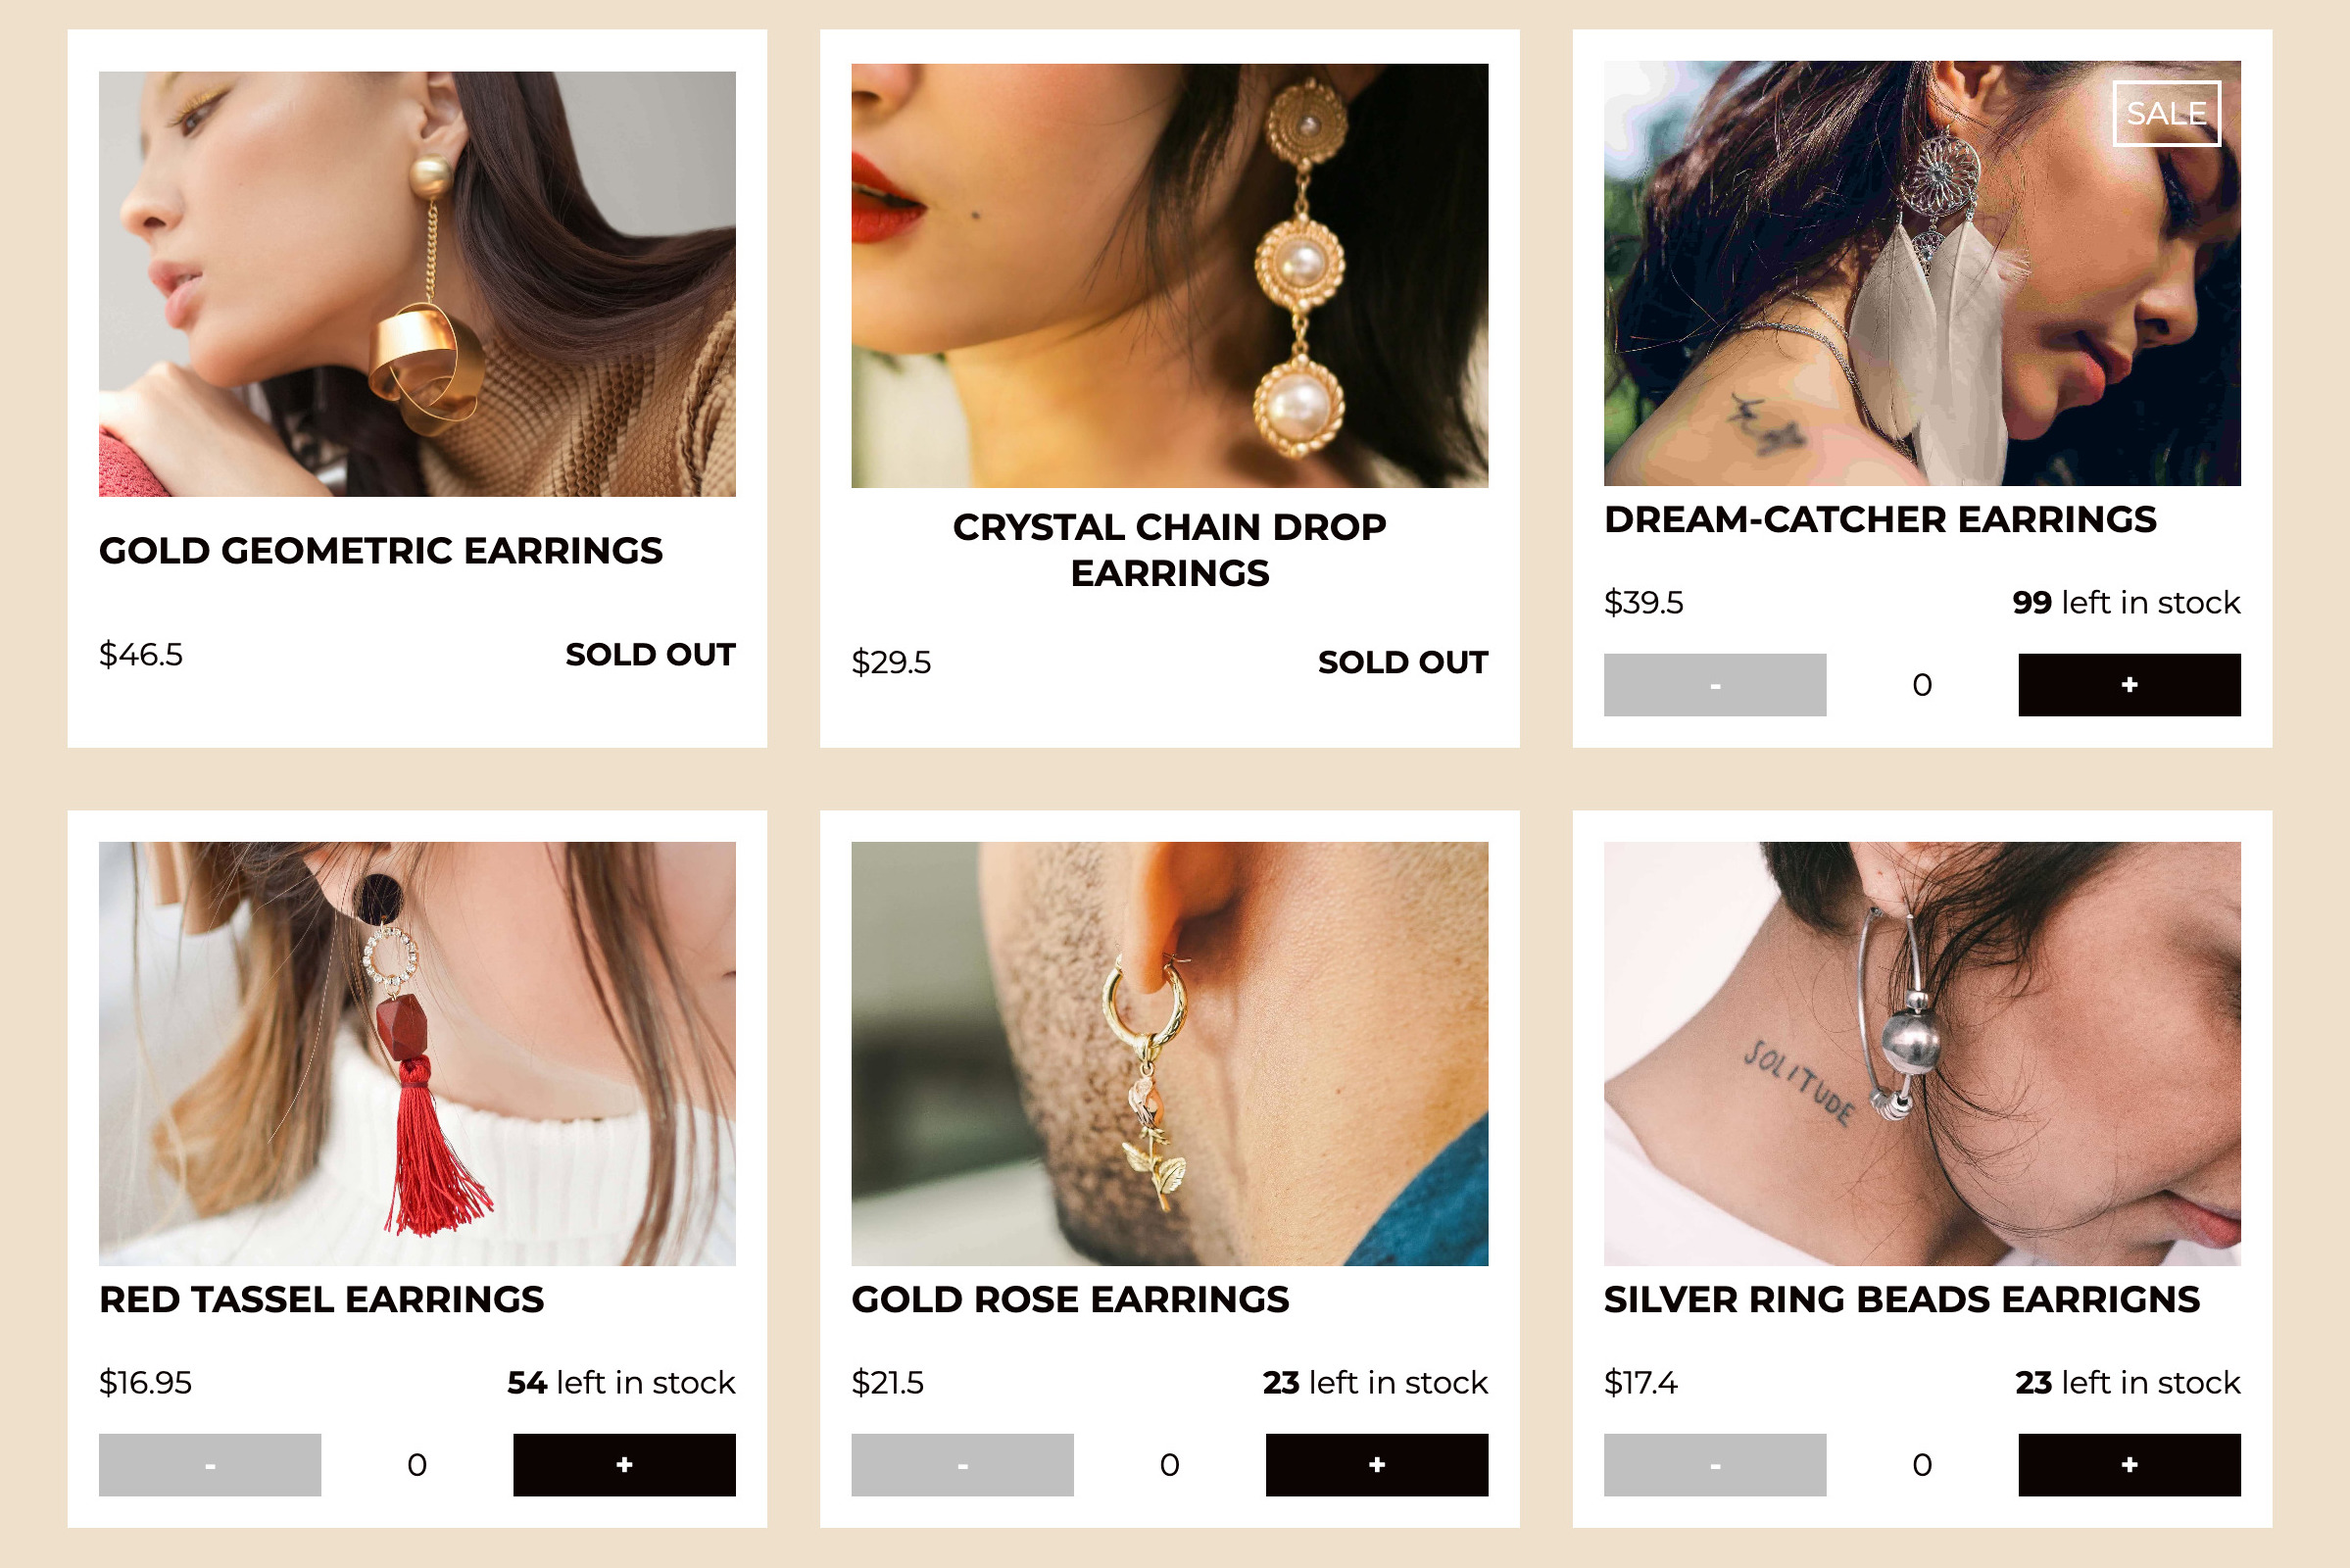
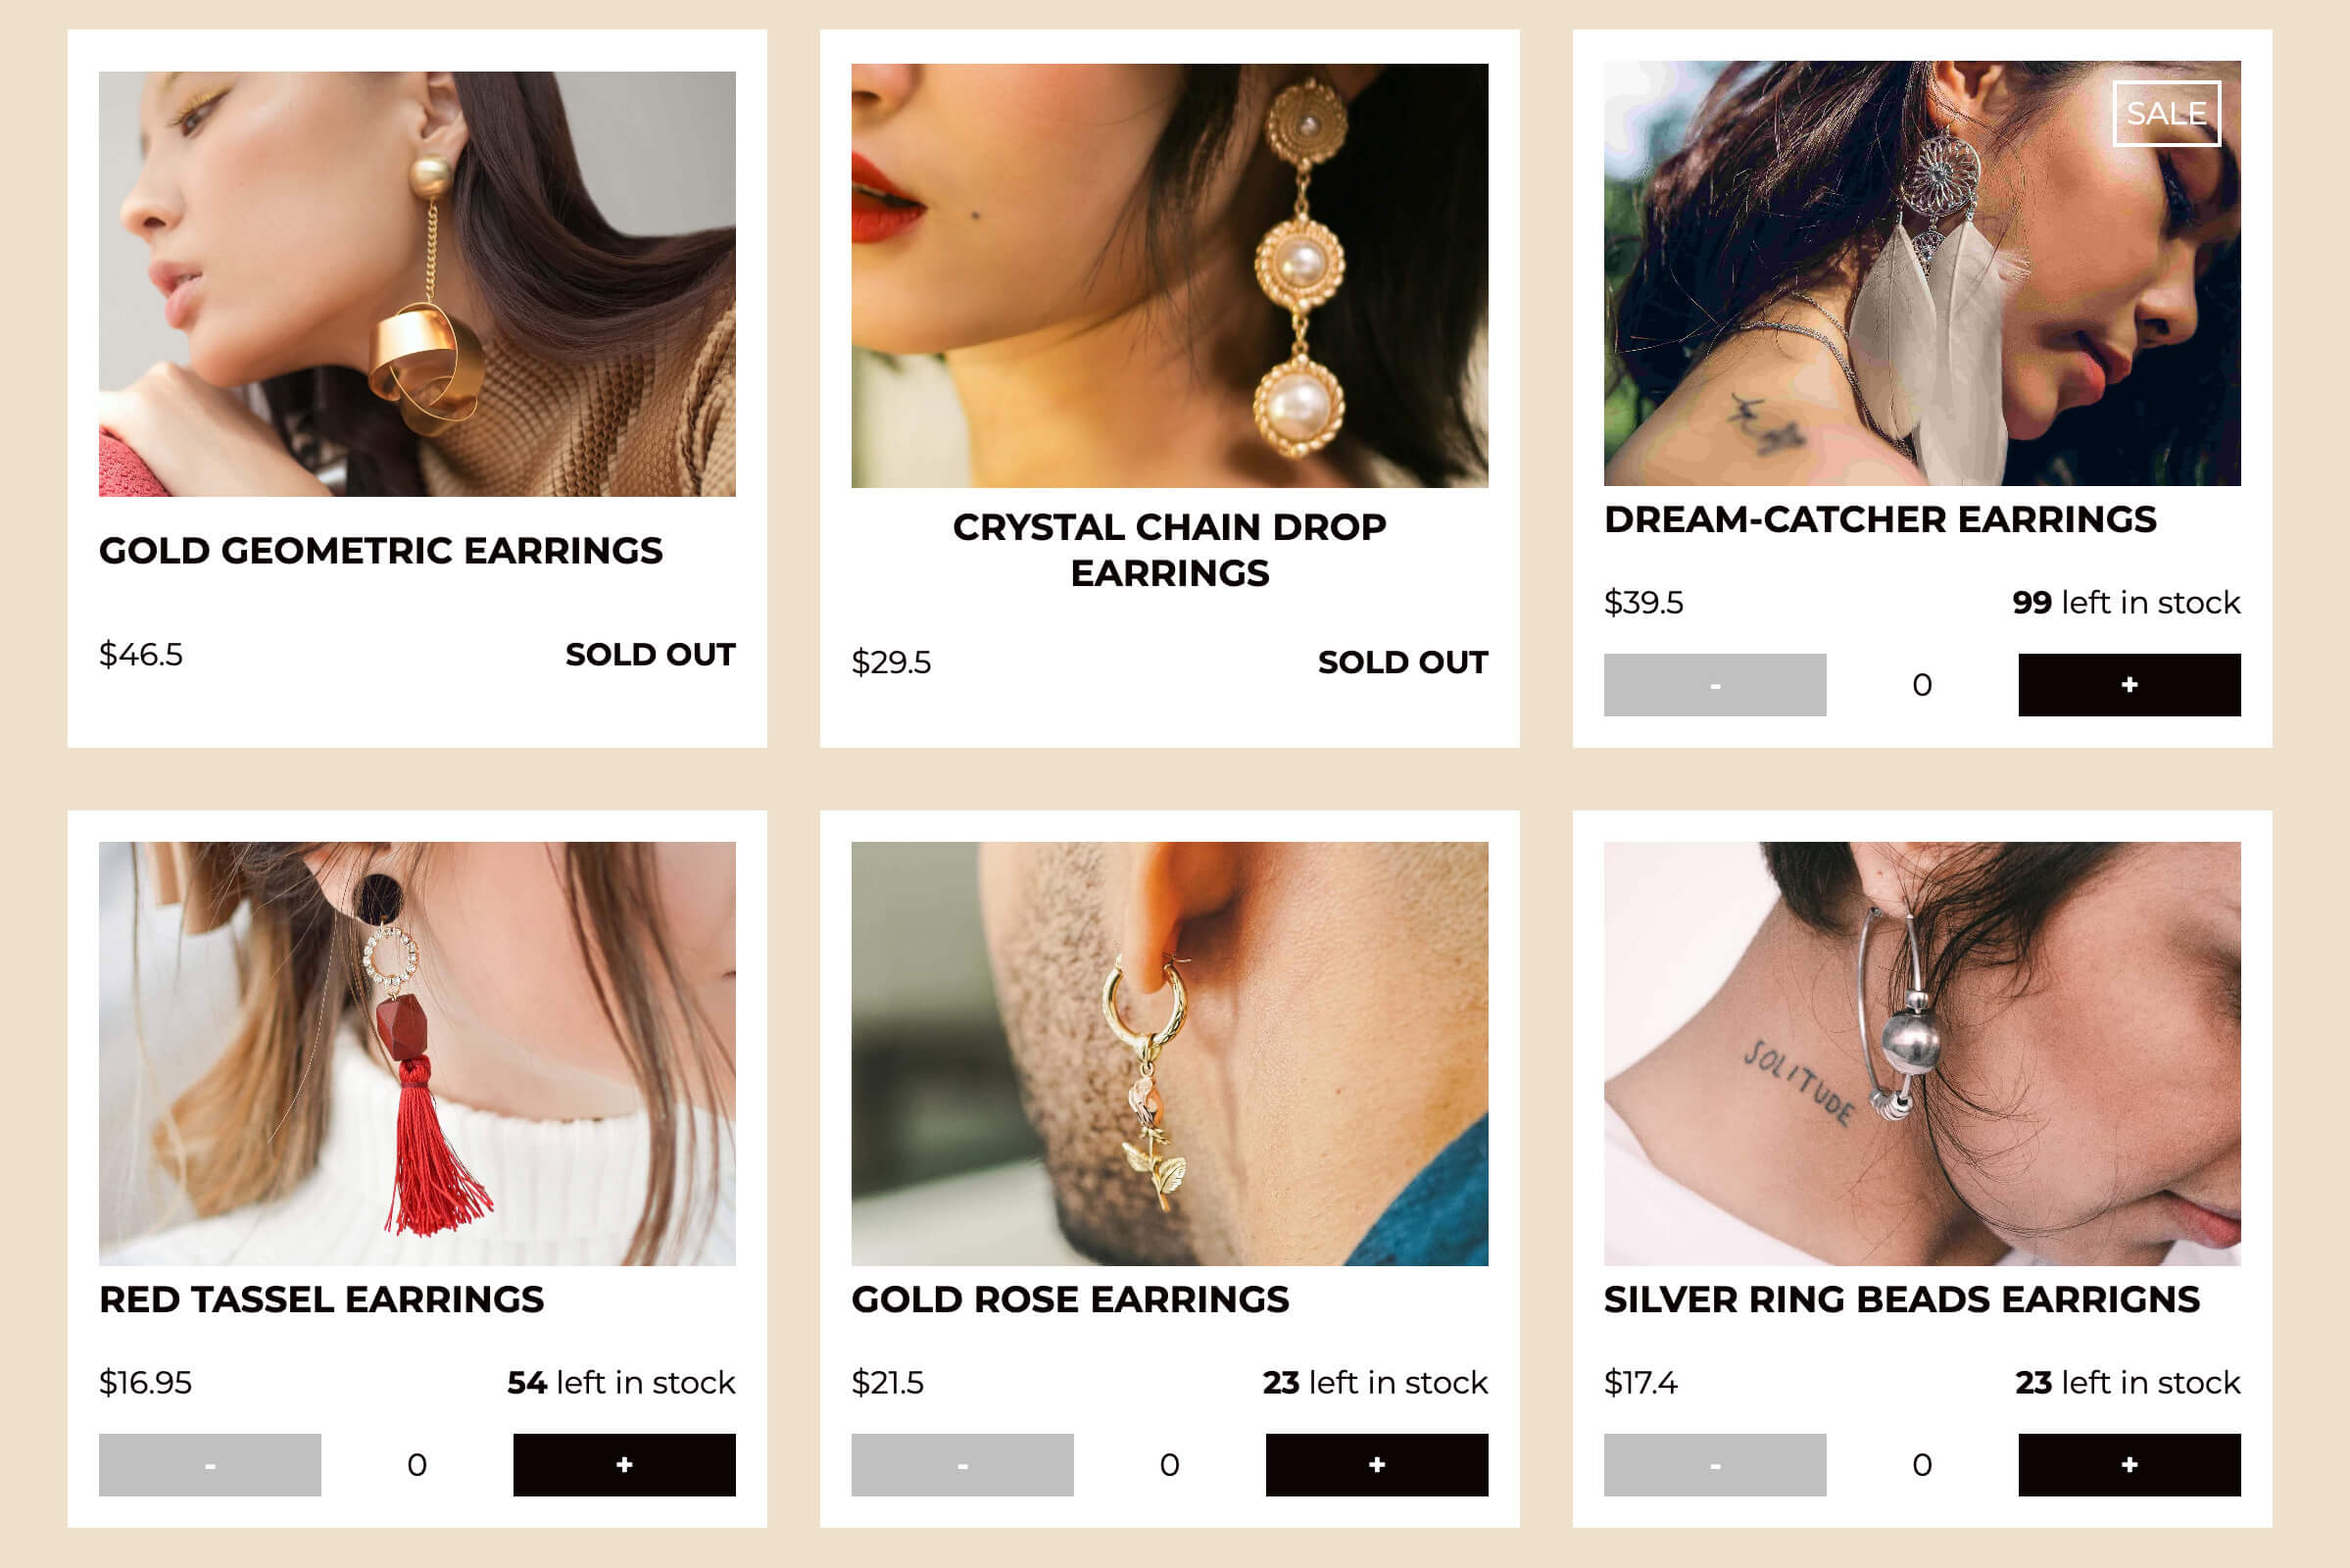
increased max-width for larger screens

Changed region(s): [[0.8023, 0.0938, 0.8641, 0.1562], [0.7715, 0.0625, 0.8023, 0.0938], [0.1852, 0.75, 0.216, 0.7812]]

diff --git a/styles/style.css b/styles/style.css
@@ -231,15 +231,6 @@ a:focus {
   color: #f82749;
 }
 
-.smooth-state-container main {
-  -webkit-animation-duration: 0.5s;
-          animation-duration: 0.5s;
-  -webkit-transition-timing-function: ease-in;
-          transition-timing-function: ease-in;
-  -webkit-animation-fill-mode: both;
-          animation-fill-mode: both;
-}
-
 @-webkit-keyframes fadeIn {
   0% {
     opacity: 0;
@@ -258,87 +249,11 @@ a:focus {
   }
 }
 
-@-webkit-keyframes fadeInRight {
-  0% {
-    opacity: 0;
-    -webkit-transform: translate3d(100%, 0, 0);
-            transform: translate3d(100%, 0, 0);
-  }
-  100% {
-    opacity: 1;
-    -webkit-transform: none;
-            transform: none;
-  }
-}
-
-@keyframes fadeInRight {
-  0% {
-    opacity: 0;
-    -webkit-transform: translate3d(100%, 0, 0);
-            transform: translate3d(100%, 0, 0);
-  }
-  100% {
-    opacity: 1;
-    -webkit-transform: none;
-            transform: none;
-  }
-}
-
-@-webkit-keyframes fadeInUp {
-  0% {
-    opacity: 0;
-    -webkit-transform: translate3d(0, 100%, 0);
-            transform: translate3d(0, 100%, 0);
-  }
-  100% {
-    opacity: 1;
-    -webkit-transform: none;
-            transform: none;
-  }
-}
-
-@keyframes fadeInUp {
-  0% {
-    opacity: 0;
-    -webkit-transform: translate3d(0, 100%, 0);
-            transform: translate3d(0, 100%, 0);
-  }
-  100% {
-    opacity: 1;
-    -webkit-transform: none;
-            transform: none;
-  }
-}
-
-@-webkit-keyframes fadeInDown {
-  0% {
-    opacity: 0;
-    -webkit-transform: translate3d(0, -100%, 0);
-            transform: translate3d(0, -100%, 0);
-  }
-  100% {
-    opacity: 1;
-    -webkit-transform: none;
-            transform: none;
-  }
-}
-
-@keyframes fadeInDown {
-  0% {
-    opacity: 0;
-    -webkit-transform: translate3d(0, -100%, 0);
-            transform: translate3d(0, -100%, 0);
-  }
-  100% {
-    opacity: 1;
-    -webkit-transform: none;
-            transform: none;
-  }
-}
-
 main {
-  max-width: 1440px;
-  max-height: 900px;
+  -webkit-animation: fadeIn 0.7s both;
+          animation: fadeIn 0.7s both;
+  max-width: 1920px;
+  max-height: 1280px;
   position: relative;
   height: 100vh;
   display: -webkit-box;
@@ -579,8 +494,6 @@ main {
 }
 
 .portfolio-page {
-  -webkit-animation-name: fadeInDown;
-          animation-name: fadeInDown;
   padding-right: 5%;
   -webkit-box-orient: horizontal;
   -webkit-box-direction: normal;
@@ -649,7 +562,6 @@ figure {
   overflow: hidden;
   width: 100%;
   position: relative;
-  border: 1px solid #191919;
 }
 
 figcaption {
@@ -683,6 +595,7 @@ figcaption {
 .thumbnail {
   -webkit-filter: saturate(0.6) grayscale(0.1);
           filter: saturate(0.6) grayscale(0.1);
+  border: 1px solid #191919;
 }
 
 .repo,
@@ -692,8 +605,6 @@ figcaption {
 }
 
 .about-page {
-  -webkit-animation-name: fadeInRight;
-          animation-name: fadeInRight;
   background-size: 50%;
   height: 100vh;
   -webkit-box-orient: horizontal;
@@ -741,8 +652,6 @@ figcaption {
 }
 
 .contact-page {
-  -webkit-animation-name: fadeInUp;
-          animation-name: fadeInUp;
   background: url("../assets/boat.svg") no-repeat right;
   background-size: 50%;
   -webkit-box-align: start;

diff --git a/styles/sass/_global.scss b/styles/sass/_global.scss
@@ -43,13 +43,6 @@ a {
 	}
 }
 
-.smooth-state-container {
-	main {
-		animation-duration: 0.5s;
-		transition-timing-function: ease-in;
-		animation-fill-mode: both;
-	}
-}
 @keyframes fadeIn {
 	0% {
 		opacity: 0;
@@ -59,42 +52,11 @@ a {
 		opacity: 1;
 	}
 }
-@keyframes fadeInRight {
-	0% {
-		opacity: 0;
-		transform: translate3d(100%, 0, 0);
-	}
 
-	100% {
-		opacity: 1;
-		transform: none;
-	}
-}
-@keyframes fadeInUp {
-	0% {
-		opacity: 0;
-		transform: translate3d(0, 100%, 0);
-	}
-
-	100% {
-		opacity: 1;
-		transform: none;
-	}
-}
-@keyframes fadeInDown {
-	0% {
-		opacity: 0;
-		transform: translate3d(0, -100%, 0);
-	}
-
-	100% {
-		opacity: 1;
-		transform: none;
-	}
-}
 main {
-	max-width: 1440px;
-	max-height: 900px;
+	animation: fadeIn 0.7s both;
+	max-width: 1920px;
+	max-height: 1280px;
 	position: relative;
 	height: 100vh;
 	display: flex;

diff --git a/styles/sass/_portfolio.scss b/styles/sass/_portfolio.scss
@@ -1,5 +1,5 @@
 .portfolio-page {
-	animation-name: fadeInDown;
+	// animation-name: fadeInDown;
 	padding-right: 5%;
 	flex-direction: row;
 	justify-content: flex-end;
@@ -52,7 +52,6 @@ figure {
 	overflow: hidden;
 	width: 100%;
 	position: relative;
-	border: 1px solid $black;
 }
 
 figcaption {
@@ -78,6 +77,7 @@ figcaption {
 
 .thumbnail {
 	filter: saturate(0.6) grayscale(0.1);
+	border: 1px solid $black;
 }
 
 .repo,

diff --git a/styles/sass/_contact.scss b/styles/sass/_contact.scss
@@ -1,5 +1,5 @@
 .contact-page {
-	animation-name: fadeInUp;
+	// animation-name: fadeInUp;
 	background: url('../assets/boat.svg') no-repeat right;
 	background-size: 50%;
 	align-items: flex-start;

diff --git a/styles/sass/_about-me.scss b/styles/sass/_about-me.scss
@@ -1,5 +1,5 @@
 .about-page {
-	animation-name: fadeInRight;
+	// animation-name: fadeInRight;
 	background-size: 50%;
 	height: 100vh;
 	flex-direction: row;
